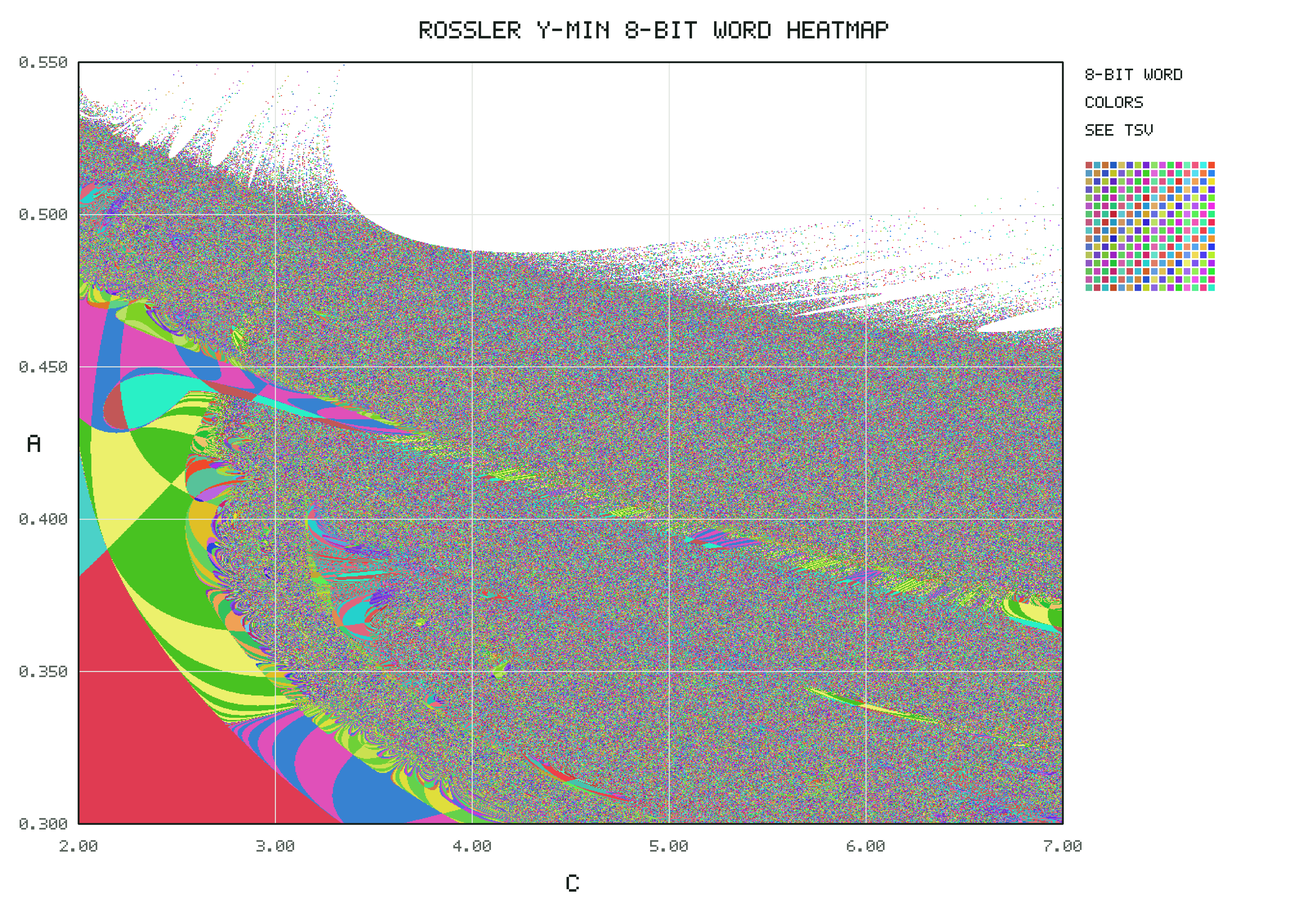
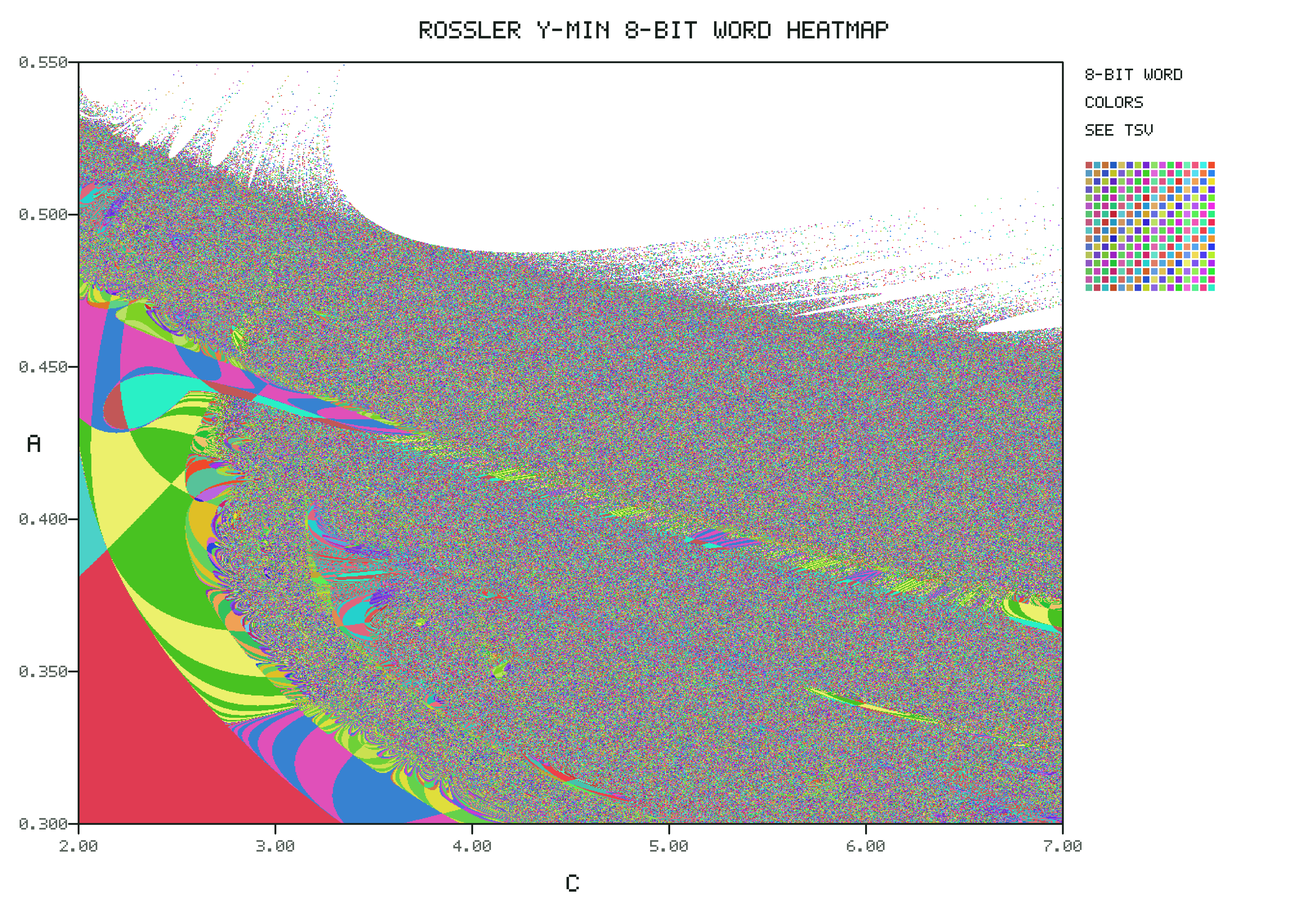
Remove flow folding heatmap gridlines

diff --git a/flow_folding/examples/rossler_y_minima_tangent_pngs.py b/flow_folding/examples/rossler_y_minima_tangent_pngs.py
@@ -684,7 +684,6 @@ def render_word_heatmap(path: str, data: ScanData, width: int, height: int) -> N
             x1 = int(math.ceil(xpix(c_edges[c_idx + 1])))
             canvas.fill_rect(x0, y0, max(1, x1 - x0), max(1, y1 - y0), colors[code])
 
-    grid_color = hex_rgb("#e1e5e0")
     axis_color = hex_rgb("#17201c")
     text_color = hex_rgb("#59635d")
     title_color = hex_rgb("#17201c")
@@ -692,8 +691,8 @@ def render_word_heatmap(path: str, data: ScanData, width: int, height: int) -> N
     title_text_scale = max(1, int(round(3 * scale)))
     tick_text_scale = max(1, int(round(2 * scale)))
     axis_text_scale = max(1, int(round(3 * scale)))
-    grid_width = max(1.0, 1.0 * scale)
     axis_width = max(1.0, 2.0 * scale)
+    tick_length = sp(12)
 
     title = f"ROSSLER Y-MIN {data.n_symbols}-BIT WORD HEATMAP"
     title_width = canvas.text_width(title, scale=title_text_scale)
@@ -702,7 +701,6 @@ def render_word_heatmap(path: str, data: ScanData, width: int, height: int) -> N
     for idx in range(6):
         c_tick = c_min + (c_max - c_min) * idx / 5
         x = xpix(c_tick)
-        canvas.draw_line(x, top, x, top + plot_height, grid_color, width=grid_width)
         label = f"{c_tick:.2f}"
         canvas.draw_text(
             int(x - canvas.text_width(label, scale=tick_text_scale) / 2),
@@ -714,7 +712,6 @@ def render_word_heatmap(path: str, data: ScanData, width: int, height: int) -> N
     for idx in range(6):
         a_tick = a_min + (a_max - a_min) * idx / 5
         y = ypix(a_tick)
-        canvas.draw_line(left, y, left + plot_width, y, grid_color, width=grid_width)
         label = f"{a_tick:.3f}"
         canvas.draw_text(
             max(sp(4), left - canvas.text_width(label, scale=tick_text_scale) - sp(14)),
@@ -728,6 +725,14 @@ def render_word_heatmap(path: str, data: ScanData, width: int, height: int) -> N
     canvas.draw_line(left + plot_width, top, left + plot_width, top + plot_height, axis_color, width=axis_width)
     canvas.draw_line(left + plot_width, top + plot_height, left, top + plot_height, axis_color, width=axis_width)
     canvas.draw_line(left, top + plot_height, left, top, axis_color, width=axis_width)
+    for idx in range(6):
+        c_tick = c_min + (c_max - c_min) * idx / 5
+        x = xpix(c_tick)
+        canvas.draw_line(x, top + plot_height, x, top + plot_height + tick_length, axis_color, width=axis_width)
+    for idx in range(6):
+        a_tick = a_min + (a_max - a_min) * idx / 5
+        y = ypix(a_tick)
+        canvas.draw_line(left - tick_length, y, left, y, axis_color, width=axis_width)
 
     legend_x = left + plot_width + sp(28)
     canvas.draw_text(legend_x, top + sp(8), "8-BIT WORD", axis_color, scale=tick_text_scale)
